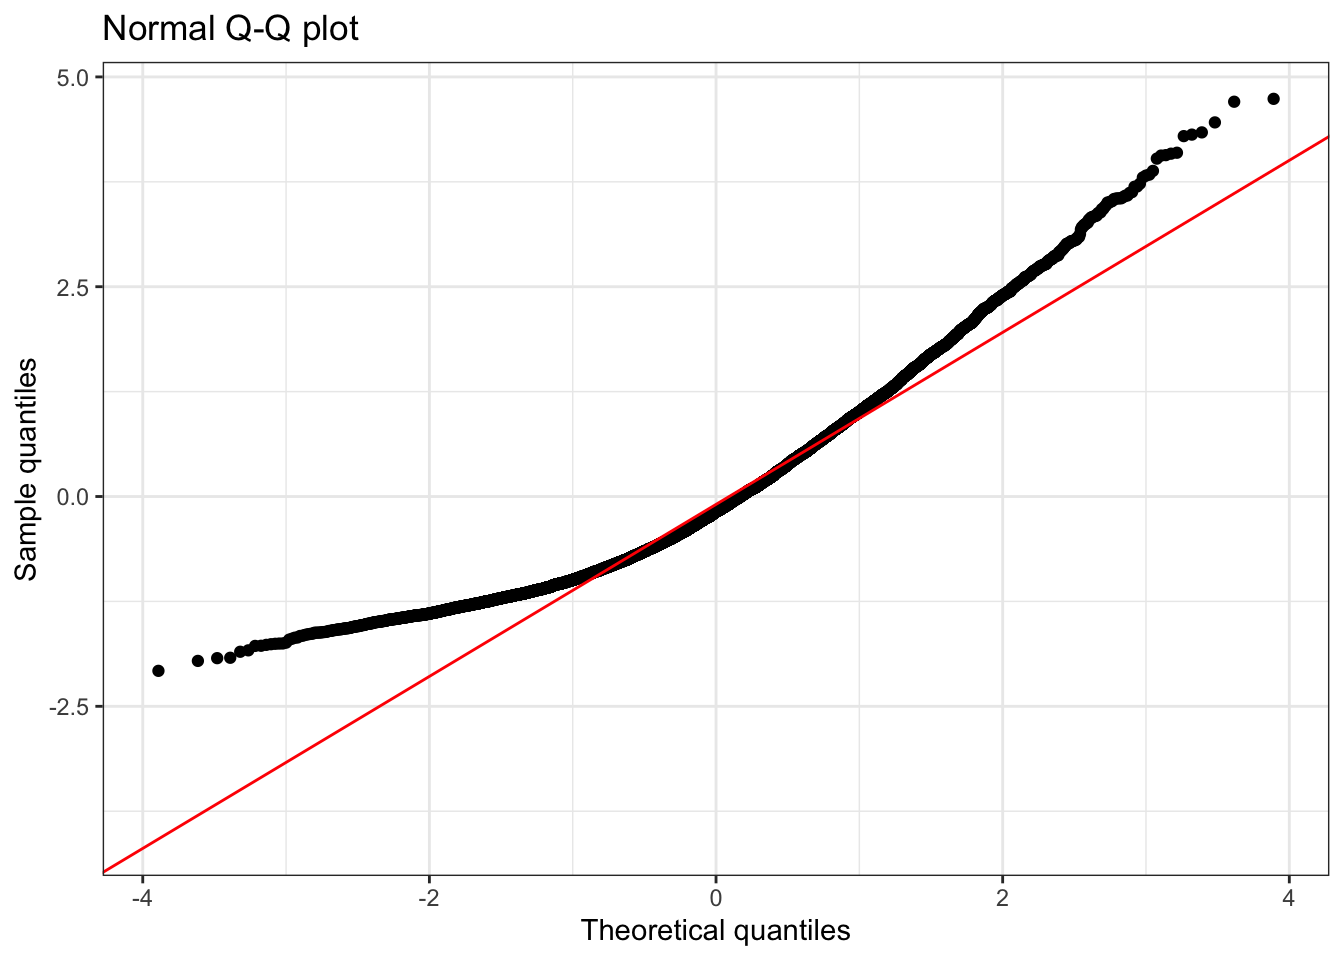
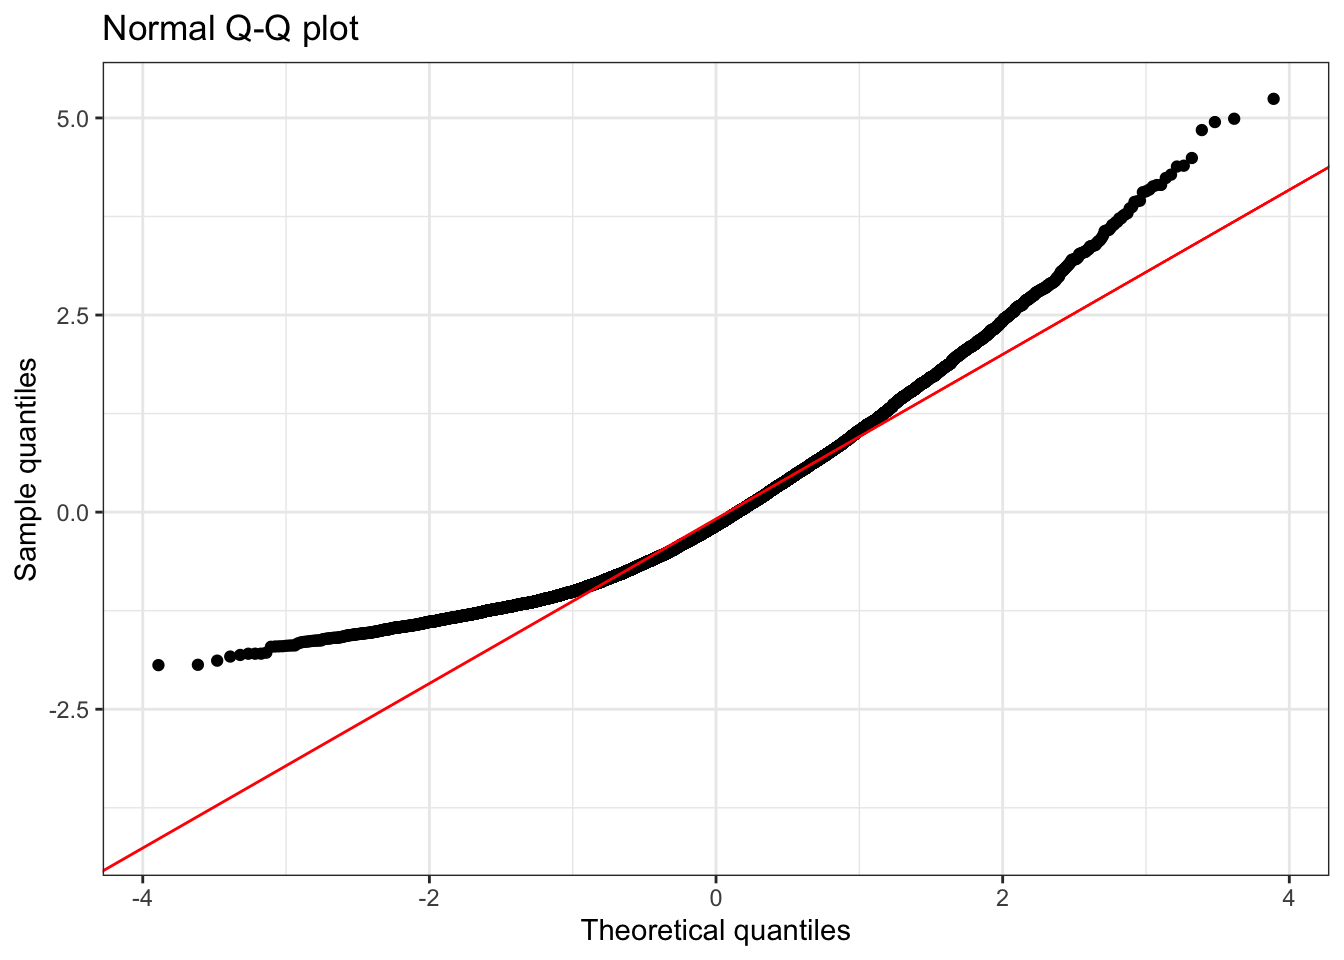
post update

diff --git a/docs/02_Data_Visualization.html b/docs/02_Data_Visualization.html
@@ -1263,8 +1263,8 @@ sample estimates:
 <p>Summary statistics:</p>
 <div class="cell">
 <div class="cell-output cell-output-stdout">
-<pre><code>      n   min  mean median  max sd skewness kurtosis
-1 10000 -2.08 -0.01  -0.18 4.74  1     0.87     3.58</code></pre>
+<pre><code>      n   min mean median  max   sd skewness kurtosis
+1 10000 -1.94 0.01  -0.17 5.24 1.01     0.88     3.69</code></pre>
 </div>
 </div>
 <p>💡 Note that for a positive skewed distribution, <strong>the mean is larger than the median</strong> because the long right tail pulls the mean above the median.</p>
@@ -1301,8 +1301,8 @@ sample estimates:
 <p>Summary statistics:</p>
 <div class="cell">
 <div class="cell-output cell-output-stdout">
-<pre><code>      n   min  mean median  max sd skewness kurtosis
-1 10000 -4.89 -0.01   0.18 1.86  1    -0.86     3.53</code></pre>
+<pre><code>      n   min  mean median  max   sd skewness kurtosis
+1 10000 -5.38 -0.01   0.18 1.86 1.01    -0.88     3.63</code></pre>
 </div>
 </div>
 <p>💡 Note that for a negatively skewed distribution, <strong>the mean is smaller than the median</strong> because the long left tail pulls the mean above the median.</p>
@@ -1347,8 +1347,8 @@ sample estimates:
 <p>Summary statistics:</p>
 <div class="cell">
 <div class="cell-output cell-output-stdout">
-<pre><code>     n    min  mean median  max   sd skewness kurtosis
-1 1000 -12.47 -0.03  -0.02 8.43 1.63    -0.79    12.03</code></pre>
+<pre><code>     n   min  mean median   max   sd skewness kurtosis
+1 1000 -9.87 -0.02  -0.02 11.97 1.52     0.37    12.26</code></pre>
 </div>
 </div>
 <p><strong>Understanding Fat Tails (High Kurtosis):</strong></p>
@@ -1389,8 +1389,8 @@ sample estimates:
 <p>Summary statistics:</p>
 <div class="cell">
 <div class="cell-output cell-output-stdout">
-<pre><code>     n   min mean median  max   sd skewness kurtosis
-1 1000 -1.12    0  -0.01 1.19 0.57     0.04     1.96</code></pre>
+<pre><code>     n   min  mean median  max   sd skewness kurtosis
+1 1000 -1.17 -0.03  -0.04 1.14 0.59     0.07     1.78</code></pre>
 </div>
 </div>
 <p><strong>Understanding Thin Tails (Low Kurtosis):</strong></p>

diff --git a/docs/index.html b/docs/index.html
@@ -704,10 +704,12 @@ ul.task-list li input[type="checkbox"] {
 <section id="course-evaluation" class="level2" data-number="3">
 <h2 data-number="3" class="anchored" data-anchor-id="course-evaluation"><span class="header-section-number">3</span> Course Evaluation</h2>
 <p>Compud Assessment</p>
+<p>In case of any discrepancies between the dates listed on the course website and StudentWeb, <span class="env-green"><strong>use the dates on StudentWeb as the reference.</strong></span></p>
 <ul>
 <li><p>Oppgave (home assignment): 40%</p>
 <p>Group work (1-3 students) is possible; including a case study with data analysis and visualization; a report will be submitted;</p>
 <p>Date: week 42 (preliminary date: 14.10.2025)</p>
+<p>Duration: 2 weeks.</p>
 <p>The assignment will be released in Inspera, and you will have one week to complete it.</p>
 <p>More details will be provided as the course progresses.</p></li>
 <li><p>Eksamen (school exam): 60%</p>

diff --git a/docs/04_Theoretical_Framework_LR.html b/docs/04_Theoretical_Framework_LR.html
@@ -988,7 +988,7 @@ Solution
 </div>
 <div class="cell" data-layout-align="center">
 <div class="cell-output-display">
-<div id="fig-clt" class="quarto-float quarto-figure quarto-figure-center anchored" data-fig-pos="H" width="990" data-fig-align="center">
+<div id="fig-clt" class="quarto-float quarto-figure quarto-figure-center anchored" width="990" data-fig-pos="H" data-fig-align="center">
 <figure class="quarto-float quarto-float-fig figure">
 <div aria-describedby="fig-clt-caption-0ceaefa1-69ba-4598-a22c-09a6ac19f8ca">
 <img src="images/CLT.png" id="fig-clt" class="img-fluid quarto-figure quarto-figure-center anchored figure-img" data-fig-pos="H" width="990">
